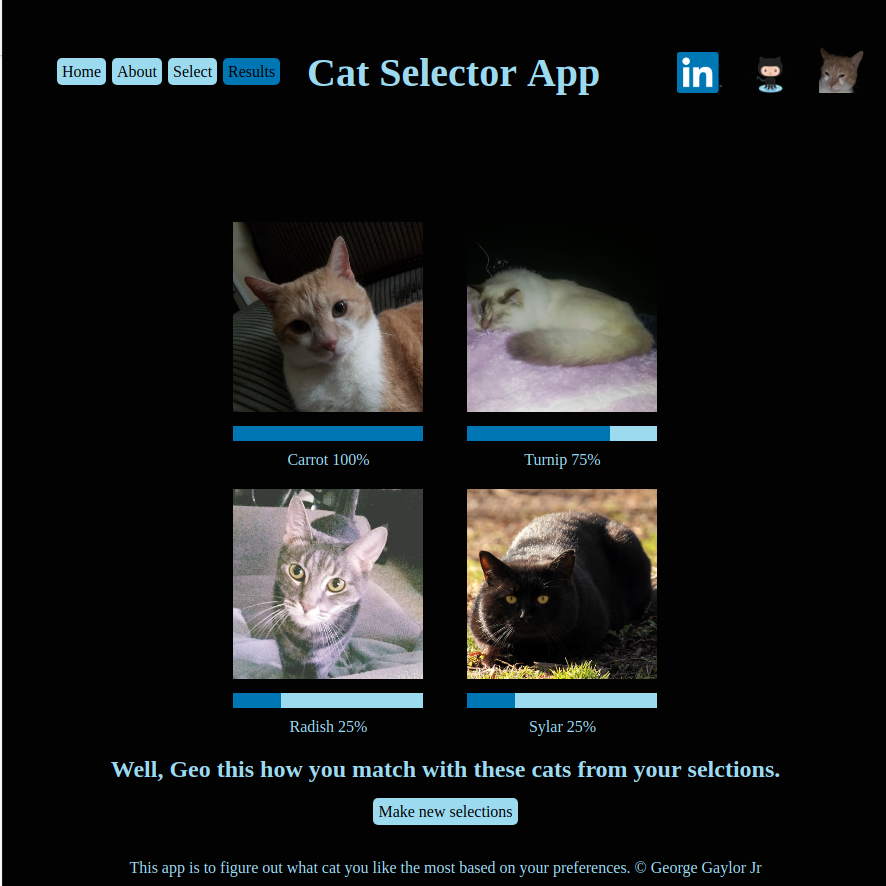
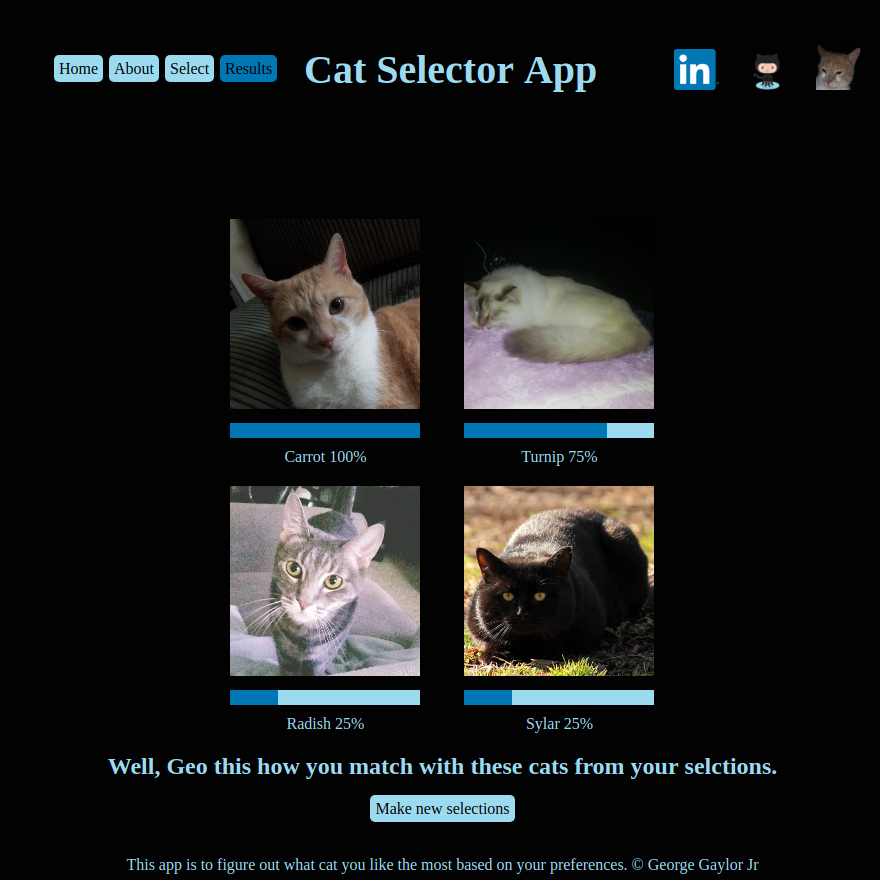
Refactored and reworked some CSS

diff --git a/styles/layout.css b/styles/layout.css
@@ -1,0 +1,45 @@
+header{
+  width: 100%;
+  display: flex;
+  flex-direction: column;
+  min-height: 150px;
+}
+.photos div{
+  background-color: gray;
+  width: 90%;
+  display: inline-block;
+  vertical-align: middle;
+  padding: 20px;
+}
+.photos div:nth-child(2){
+  display: none;
+}
+@media screen and (min-width: 710px) {
+  header{
+    flex-direction: row;
+    justify-content: space-between;
+    align-items: flex-start;
+    flex-wrap: wrap;
+    min-height: 75px;
+  }
+  .photos div{
+    width: 75%;
+  }
+}
+@media screen and (min-width: 950px) {
+  .photos div{
+    width: 60%;
+  }
+/*  .photos div:nth-child(2){
+    display: none;
+  }*/
+}
+/* double wide for big screens! */
+@media screen and (min-width: 1200px) {
+  .photos div{
+    width: 45%;
+  }
+  .photos div:nth-child(2){
+    display: inline-block;
+  }
+}

diff --git a/styles/base.css b/styles/base.css
@@ -1,0 +1,50 @@
+html, body {
+  height: 100%;
+  padding: 0;
+  margin: 0;
+  min-width: 300px;
+}
+body{
+  margin: 0 auto;
+  height: 100%;
+  color: #9cdaf0;
+  background-color: #020202;
+  text-align: center;
+  display: flex;
+  flex-direction: column;
+  align-items: center;
+}
+section{
+  margin: 20px;
+  padding: 20px;
+  width: 80%;
+  align-items: center;
+  text-align: center;
+}
+
+footer{
+  flex-shrink: 0;
+  padding: 2px;
+}
+h1{
+  font-size: 3em;
+  text-decoration: none;
+  margin: 20px;
+}
+a{
+  text-decoration: none;
+  color: black;
+  text-align: center;
+  padding: 0 10px;
+  margin: 1px;
+}
+ul{
+  list-style: none;
+  margin: 20px;
+}
+li {
+  padding: 10px;
+  background: #9cdaf0;
+  border-radius: 5px;
+  display: inline-block;
+}

diff --git a/index.html b/index.html
@@ -6,12 +6,13 @@
   <meta name="viewport" content="width=device-width, initial-scale=1.0">
   <meta name="author" content="George Gaylor Jr" />
   <title>George Gaylor Portfolio</title>
-  <link rel="stylesheet" type="text/css" href="styles/mystyle.css">
+  <link rel="stylesheet" href="styles/base.css">
+  <link rel="stylesheet" href="styles/layout.css">
+  <link rel="stylesheet" href="styles/modules.css">
 </head>
 <body>
   <header>
     <h1>George Gaylor</h1>
-    <h2>Aspiring Web Developer</h2>
     <ul>
       <li data-content="photos"><a href="#">Photos</a></li>
       <li data-content="projects"><a href="#">Projects</a></li>

diff --git a/styles/modules.css b/styles/modules.css
@@ -1,0 +1,20 @@
+article{
+  display: inline-block;
+}
+span{
+  margin: 0 10px;
+}
+img{
+  width: 95%;
+  margin: auto;
+  padding: 0;
+  align-self: center;
+}
+form {
+  vertical-align: bottom;
+}
+input[type="radio"]{
+  /*display: inline-block;*/
+  width: 40px;
+  vertical-align: bottom;
+}
